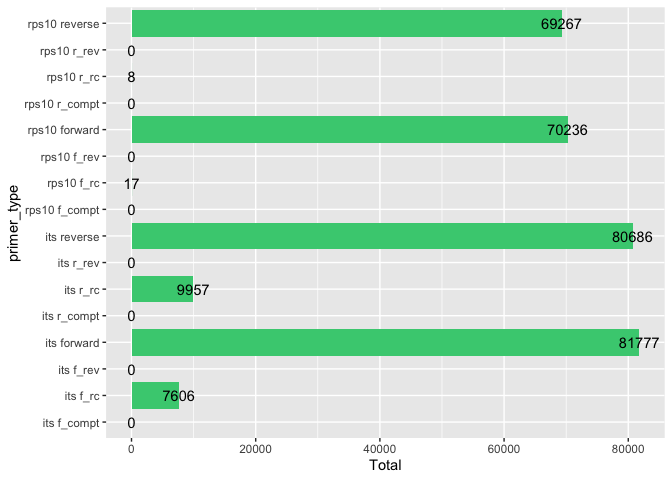
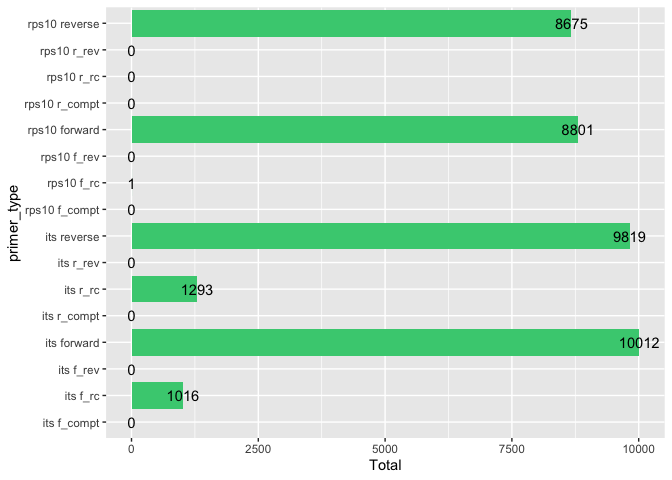
updates

diff --git a/README.md b/README.md
@@ -1,7 +1,7 @@
 
 <!-- README.md is generated from README.Rmd. Please edit that file -->
 
-# rps10package-TODO rename
+# rps10package-working on name
 
 ## Description
 
@@ -121,22 +121,22 @@ data_tables <-
 #> # A tibble: 16 × 7
 #>    primer_name orientation sequence               S1_R1 S1_R2 S2_R1 S2_R2
 #>    <chr>       <chr>       <chr>                  <dbl> <dbl> <dbl> <dbl>
-#>  1 rps10       forward     GTTGGTTAGAGYARAAGACT   35634     0 34601     1
-#>  2 its         forward     CTTGGTCATTTAGAGGAAGTAA 48291     1 33485     0
+#>  1 rps10       forward     GTTGGTTAGAGYARAAGACT    4001     0  4800     0
+#>  2 its         forward     CTTGGTCATTTAGAGGAAGTAA  5439     0  4573     0
 #>  3 rps10       f_compt     CAACCAATCTCRTYTTCTGA       0     0     0     0
 #>  4 its         f_compt     GAACCAGTAAATCTCCTTCATT     0     0     0     0
 #>  5 rps10       f_rev       TCAGAARAYGAGATTGGTTG       0     0     0     0
 #>  6 its         f_rev       AATGAAGGAGATTTACTGGTTC     0     0     0     0
-#>  7 rps10       f_rc        AGTCTTYTRCTCTAACCAAC       0     8     0     9
-#>  8 its         f_rc        TTACTTCCTCTAAATGACCAAG     0  2290     0  5316
-#>  9 rps10       reverse     ATRYYTAGAAAGAYTYGAACT      0 35033     1 34233
-#> 10 its         reverse     GCTGCGTTCTTCATCGATGC       1 47471     0 33214
+#>  7 rps10       f_rc        AGTCTTYTRCTCTAACCAAC       0     0     0     1
+#>  8 its         f_rc        TTACTTCCTCTAAATGACCAAG     0   295     0   721
+#>  9 rps10       reverse     ATRYYTAGAAAGAYTYGAACT      0  3924     0  4751
+#> 10 its         reverse     GCTGCGTTCTTCATCGATGC       0  5318     0  4501
 #> 11 rps10       r_compt     TAYRRATCTTTCTRARCTTGA      0     0     0     0
 #> 12 its         r_compt     CGACGCAAGAAGTAGCTACG       0     0     0     0
 #> 13 rps10       r_rev       TCAAGYTYAGAAAGATYYRTA      0     0     0     0
 #> 14 its         r_rev       CGTAGCTACTTCTTGCGTCG       0     0     0     0
-#> 15 rps10       r_rc        AGTTCRARTCTTTCTARRYAT      4     0     4     0
-#> 16 its         r_rc        GCATCGATGAAGAACGCAGC    3225     0  6732     0
+#> 15 rps10       r_rc        AGTTCRARTCTTTCTARRYAT      0     0     0     0
+#> 16 its         r_rc        GCATCGATGAAGAACGCAGC     392     0   901     0
 ```
 
 <img src="man/figures/README-create data tables-1.png" width="100%" />
@@ -201,8 +201,6 @@ asv_abund_matrix <-
   )
 #> [1] "File already exists"
 #> Duplicate sequences detected and merged.
-#> Duplicate sequences detected and merged.
-#> Duplicate sequences detected and merged.
 #> `stat_bin()` using `bins = 30`. Pick better value with `binwidth`.
 ```
 
@@ -238,28 +236,26 @@ summary <- assignTax(
   multithread = TRUE,
   barcode = "rps10_its",
 )
-#> # A tibble: 117 × 7
+#> # A tibble: 55 × 7
 #>    sequence                  dada2_tax dada2_pid S1_rps10 S2_rps10 S1_its S2_its
 #>    <chr>                     <chr>     <chr>     <chr>    <chr>    <chr>  <chr> 
-#>  1 GAAAATCTTTGTGTCGGTGGTTCA… Eukaryot… 72.91242… 12623    180      0      0     
-#>  2 GAAAATCTTTGTGTCGGTGGTTCA… Eukaryot… 99.77168… 7505     2356     0      0     
-#>  3 GAAAATCTTTGTGTCGGTGGTTCA… Eukaryot… 99.77064… 102      6276     0      0     
-#>  4 GAAAATCTTTGTGTCGGTGGTTCA… Eukaryot… 86.87782… 0        3979     0      0     
-#>  5 AAAAAGTCGTAACAAGGTTTCCGT… Eukaryot… 99.13793… 0        0        3965   0     
-#>  6 AAAAAGTCGTAACAAGGTTTCCGT… Eukaryot… 100       0        0        3661   0     
-#>  7 GAAAATCTTTGTGTCGGTGGTTCA… Eukaryot… 99.54441… 0        1592     0      0     
-#>  8 AAAAAGTCGTAACAAGGTTTCCGT… Eukaryot… 99.56896… 0        0        0      1297  
-#>  9 AAGTCGTAACAAGGTTTCCGTAGG… Eukaryot… 79.73568… 0        0        274    892   
-#> 10 AAAAAGTCGTAACAAGGTTTCCGT… Eukaryot… 99.56896… 0        0        0      1004  
-#> # ℹ 107 more rows
-#> Duplicate sequences detected and merged.
-#> Duplicate sequences detected and merged.
+#>  1 GAAAATCTTTGTGTCGGTGGTTCA… Eukaryot… 72.91242… 1434     30       0      0     
+#>  2 GAAAATCTTTGTGTCGGTGGTTCA… Eukaryot… 99.77168… 835      337      0      0     
+#>  3 GAAAATCTTTGTGTCGGTGGTTCA… Eukaryot… 100       0        831      0      0     
+#>  4 GAAAATCTTTGTGTCGGTGGTTCA… Eukaryot… 86.87782… 0        546      0      0     
+#>  5 AAAAAGTCGTAACAAGGTTTCCGT… Eukaryot… 90.94488… 0        0        472    0     
+#>  6 AAAAAGTCGTAACAAGGTTTCCGT… Eukaryot… 90.94488… 0        0        419    0     
+#>  7 AAAAAGTCGTAACAAGGTTTCCGT… Eukaryot… 90.55118… 0        0        0      331   
+#>  8 AAGTCGTAACAAGGTTTCCGTAGG… Eukaryot… 76.21145… 0        0        41     205   
+#>  9 GAAAATCTTTGTGTCGGTGGTTCA… Eukaryot… 99.54441… 0        240      0      0     
+#> 10 AAAAAGTCGTAACAAGGTTTCCGT… Eukaryot… 90.55118… 0        0        0      233   
+#> # ℹ 45 more rows
 #> Duplicate sequences detected and merged.
 #>   sample_nameBarcode input filtered denoisedF denoisedR merged nonchim
-#> 1           S1_rps10 36760    20639     20625     20620  20597   20597
-#> 2           S2_rps10 50668    12045     14415     14410  14383   14383
-#> 3             S1_its 35899    14420     11927     11902  11781   11781
-#> 4             S2_its 19953     5746      5644      5639   5600    5600
+#> 1           S1_rps10  4119     2284      2284      2274   2269    2269
+#> 2           S2_rps10  5678     1424      1985      1985   1984    1984
+#> 3             S1_its  4987     1987      1386      1379   1312    1312
+#> 4             S2_its  4827     1394      1346      1341   1294    1294
 ```
 
 ### Convert ASV matrix to Taxmap and Phyloseq objects
@@ -273,7 +269,7 @@ functions ‘parse_tax_data’ and ‘as_phyloseq’.
 
 ``` r
 obj_dada<-asvmatrix_to_taxmap(asv_abund_matrix, min_read_depth=10, minimum_bootstrap=75)
-#> Rows: 117 Columns: 7
+#> Rows: 55 Columns: 7
 #> ── Column specification ────────────────────────────────────────────────────────
 #> Delimiter: ","
 #> chr (2): sequence, dada2_tax
